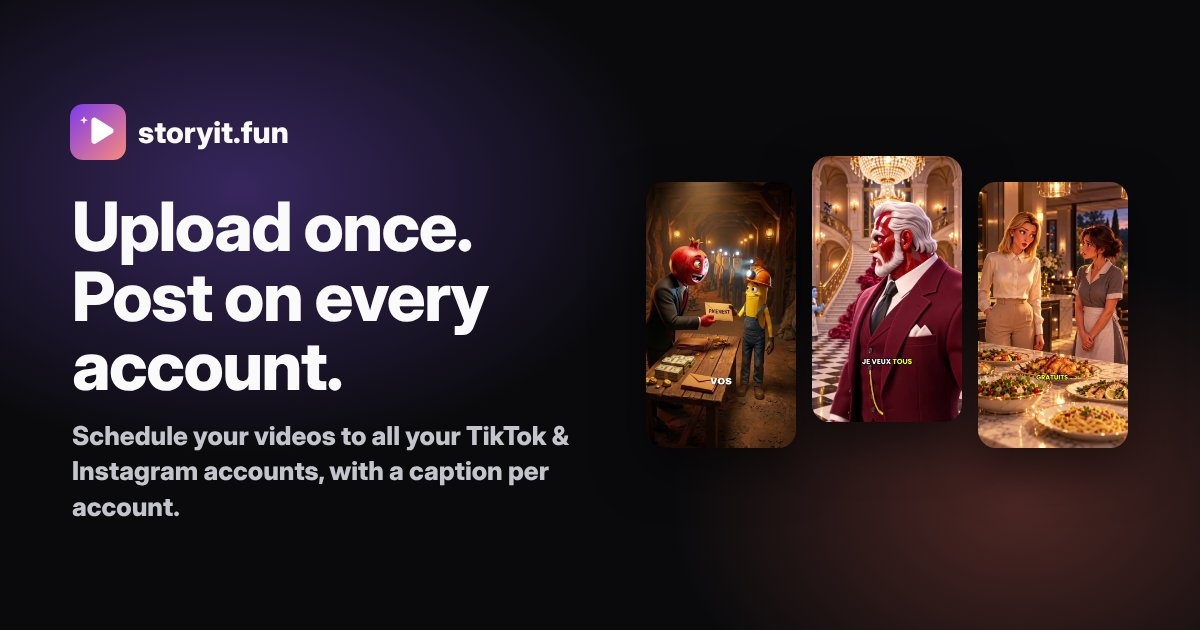
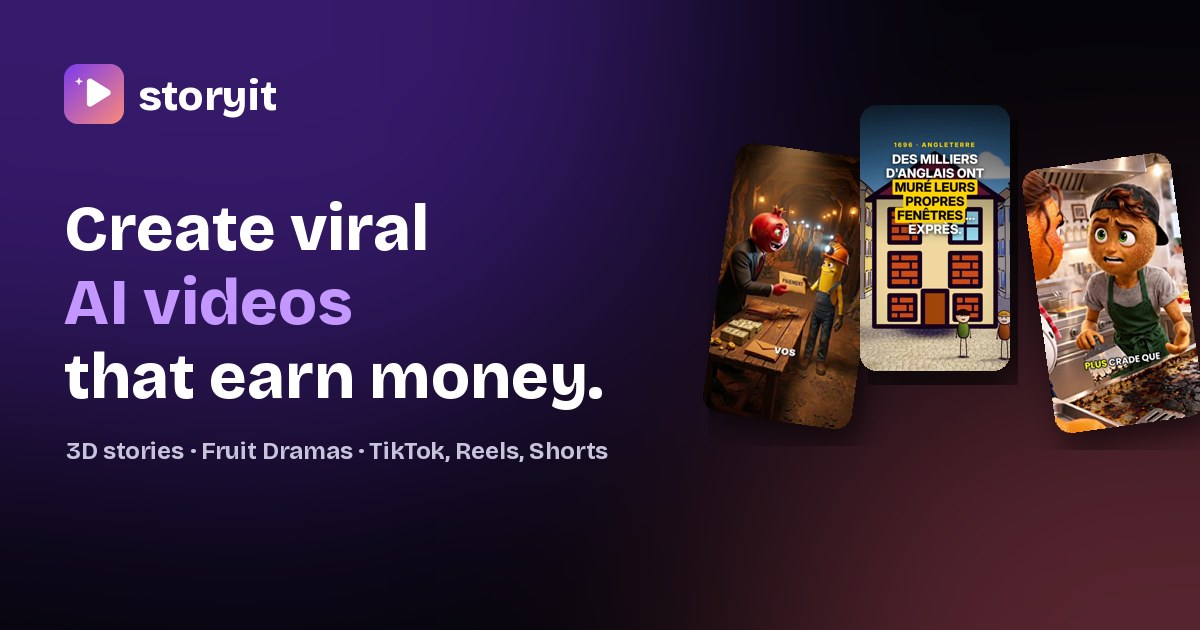
SEO: pre-rendered public pages (real HTML for crawlers), new title/description, up-to-date structured data (app, FAQ, 18 videos), video sitemap, new share image; landing copy and FAQ about AI video creation; hero badges removed
Claude-Session: https://claude.ai/code/session_01Fc3ixor6jDNq2ZXfJ2QyPD

diff --git a/index.html b/index.html
@@ -3,8 +3,8 @@
   <head>
     <meta charset="UTF-8" />
     <meta name="viewport" content="width=device-width, initial-scale=1.0" />
-    <title>Storyit — 3D animated videos from true stories, made by AI</title>
-    <meta name="description" content="Pick a true story, a decor and a voice: Storyit makes a finished 3D animated video with narration, music, hook title and captions, ready for TikTok, Reels and Shorts." />
+    <title>Storyit — AI Video Generator for Viral TikTok Videos (3D &amp; Fruit Dramas)</title>
+    <meta name="description" content="Create viral AI videos that earn money: 3D animated true stories and Fruit Drama mini-series, with voice, music and captions, ready for TikTok, Reels and Shorts. Translate any video in one click. Start free." />
     <meta name="theme-color" content="#0a0a0c" />
     <script>
       // Apply the theme before first paint (no flash). Mirrors src/lib/theme.tsx.
@@ -17,8 +17,8 @@
     </script>
     <link rel="icon" type="image/svg+xml" href="/favicon.svg" />
     <meta property="og:type" content="website" />
-    <meta property="og:title" content="Storyit — 3D animated videos from true stories, made by AI" />
-    <meta property="og:description" content="Pick a true story, a decor and a voice: Storyit makes a finished 3D animated video with narration, music, hook title and captions, ready for TikTok, Reels and Shorts." />
+    <meta property="og:title" content="Storyit — AI Video Generator for Viral TikTok Videos (3D &amp; Fruit Dramas)" />
+    <meta property="og:description" content="Create viral AI videos that earn money: 3D animated true stories and Fruit Drama mini-series, with voice, music and captions, ready for TikTok, Reels and Shorts. Translate any video in one click. Start free." />
     <meta name="twitter:card" content="summary_large_image" />
     <link rel="canonical" href="https://storyit.fun/" />
     <meta name="robots" content="index, follow, max-image-preview:large" />
@@ -30,28 +30,20 @@
     <meta property="og:image" content="https://storyit.fun/og.jpg" />
     <meta property="og:image:width" content="1200" />
     <meta property="og:image:height" content="630" />
-    <meta property="og:image:alt" content="Storyit: upload once, post on every TikTok and Instagram account" />
-    <meta name="twitter:title" content="Storyit — 3D animated videos from true stories, made by AI" />
-    <meta name="twitter:description" content="Pick a true story, a decor and a voice: Storyit makes a finished 3D animated video with narration, music, hook title and captions, ready for TikTok, Reels and Shorts." />
+    <meta property="og:image:alt" content="Storyit: create viral AI videos (3D stories and Fruit Dramas) for TikTok, Reels and Shorts" />
+    <meta name="twitter:title" content="Storyit — AI Video Generator for Viral TikTok Videos (3D &amp; Fruit Dramas)" />
+    <meta name="twitter:description" content="Create viral AI videos that earn money: 3D animated true stories and Fruit Drama mini-series, with voice, music and captions, ready for TikTok, Reels and Shorts. Translate any video in one click. Start free." />
     <meta name="twitter:image" content="https://storyit.fun/og.jpg" />
     <!-- Self-hosted fonts (no third-party request); the body and headline fonts are preloaded. -->
     <link rel="preload" as="font" type="font/woff2" href="/fonts/Inter-latin-1ab1ad.woff2" crossorigin />
-    <script type="application/ld+json">[{"@context": "https://schema.org", "@type": "Organization", "name": "Storyit", "url": "https://storyit.fun/", "logo": "https://storyit.fun/brand/storyit-icon-1024.png"}, {"@context": "https://schema.org", "@type": "WebSite", "name": "Storyit", "url": "https://storyit.fun/"}, {"@context": "https://schema.org", "@type": "SoftwareApplication", "name": "Storyit", "applicationCategory": "BusinessApplication", "operatingSystem": "Web", "url": "https://storyit.fun/", "image": "https://storyit.fun/og.jpg", "description": "Schedule and publish videos to several TikTok and Instagram accounts from one library, with a caption per account and protection against duplicate posts.", "offers": [{"@type": "Offer", "name": "Starter", "price": "0", "priceCurrency": "USD"}, {"@type": "Offer", "name": "Creator", "price": "29", "priceCurrency": "USD", "category": "subscription"}, {"@type": "Offer", "name": "Studio", "price": "99", "priceCurrency": "USD", "category": "subscription"}]}]</script>
+    <script type="application/ld+json">[{"@context": "https://schema.org", "@type": "Organization", "name": "Storyit", "url": "https://storyit.fun/", "logo": "https://storyit.fun/brand/storyit-icon-1024.png"}, {"@context": "https://schema.org", "@type": "WebSite", "name": "Storyit", "url": "https://storyit.fun/"}, {"@context": "https://schema.org", "@type": "SoftwareApplication", "name": "Storyit", "applicationCategory": "MultimediaApplication", "applicationSubCategory": "AI video generator", "operatingSystem": "Web", "url": "https://storyit.fun/", "image": "https://storyit.fun/og.jpg", "description": "AI video generator for TikTok, Reels and Shorts: 3D animated true stories, Fruit Drama mini-series with AI images and animation, automatic editing, hook titles and captions, and AI video translation.", "featureList": ["AI 3D animated videos", "AI fruit video (Fruit Drama) generator", "Automatic video generation with ChatGPT images and Grok animation", "AI video translation with a new voice", "Hook titles and word-by-word captions", "Daily trending video ideas"], "offers": [{"@type": "Offer", "name": "Starter", "price": "0", "priceCurrency": "USD"}, {"@type": "Offer", "name": "Creator", "price": "29", "priceCurrency": "USD", "category": "subscription"}, {"@type": "Offer", "name": "Pro", "price": "59", "priceCurrency": "USD", "category": "subscription"}, {"@type": "Offer", "name": "Studio", "price": "99", "priceCurrency": "USD", "category": "subscription"}]}]</script>
   </head>
   <body class="bg-ink-950 text-zinc-200 antialiased">
     <div id="root">
-      <!-- Shown to crawlers and link previews that don't run JavaScript; React replaces it on load. -->
+      <!-- Replaced at build time by the pre-rendered page (scripts/prerender.mjs); React renders the app on load. -->
       <main style="max-width:720px;margin:0 auto;padding:64px 16px;font-family:system-ui,sans-serif">
-        <h1>Turn any true story into a 3D animated video.</h1>
-        <p>Pick a story, a decor and a voice. Storyit writes the script, animates the 3D world, records the narrator and adds the hook title, captions and music: a finished vertical video for TikTok, Reels and Shorts.</p>
-        <h2>How it works</h2>
-        <ol>
-          <li>Connect your TikTok and Instagram accounts with their official login.</li>
-          <li>Import your videos once into your library.</li>
-          <li>Post a video on several accounts at once, or plan a daily rotation.</li>
-          <li>Approve each caption; the server publishes on time and shows the real status.</li>
-        </ol>
-        <p>Plans: Starter (free), Creator ($29/month), Studio ($99/month). <a href="/login">Start free</a> · <a href="/privacy">Privacy</a> · <a href="/terms">Terms</a></p>
+        <h1>Create viral AI videos that earn money.</h1>
+        <p>Storyit is an AI video generator for TikTok, Reels and Shorts: 3D animated true stories and Fruit Drama mini-series, with voice, music, hook title and captions. <a href="/login">Start free</a></p>
       </main>
     </div>
     <script type="module" src="/src/main.tsx"></script>

diff --git a/src/components/landing/FAQ.tsx b/src/components/landing/FAQ.tsx
@@ -2,14 +2,15 @@ import { ChevronDown } from 'lucide-react';
 import { PROMPT_PROJECT_COST, formatCredits } from '@/services/credits';
 
 export const faqs = [
-  { q: 'Which platforms does Storyit publish to?', a: 'TikTok and Instagram Reels, through their official APIs. You can connect several accounts on each.' },
-  { q: 'Do you need my passwords?', a: 'No. You log in on TikTok’s and Instagram’s own pages and approve Storyit. You can disconnect an account at any time.' },
-  { q: 'Which Instagram accounts work?', a: 'Professional accounts (Business or Creator). Switching a personal account to professional is free in the Instagram app.' },
-  { q: 'Will my TikTok posts be public?', a: 'You choose the visibility for each post. While TikTok is still reviewing an app, TikTok itself keeps posts private; Storyit shows this on the account before you post.' },
-  { q: 'Can the same video be posted twice by mistake?', a: 'No. A video can go to many accounts, but only once per account. If a publication result is uncertain, Storyit asks you to check instead of reposting.' },
-  { q: 'Who writes the captions?', a: 'You, or the AI, account by account. Each account can have its own tone, language and hashtags. Nothing is posted before you approve it.' },
-  { q: 'What is the Prompt Studio?', a: `A guided writer for 60-second Fruit Drama videos: 3 story options, a 15-20 scene script with dialogue, then one image prompt and one video prompt per scene, a thumbnail and hashtags. A full project costs ${formatCredits(PROMPT_PROJECT_COST)} credits.` },
-  { q: 'What is the Animated Studio?', a: `Describe your idea, choose a story and a decor with the studio, and Storyit produces a finished vertical animated short of 30 seconds, 1 minute or 2 minutes: 3D world, cartoon characters, narration, music and sound. One short costs 3,500 credits (30 s), 6,000 credits (1 min) or 12,000 credits (2 min), refunded if the render fails.` },
+  { q: 'What is Storyit?', a: 'Storyit is an AI video generator for TikTok, Instagram Reels and YouTube Shorts. It turns a story idea into a finished vertical video: 3D animated true stories, Fruit Drama mini-series, and translations of your existing videos into other languages.' },
+  { q: 'How do I make an AI fruit video (Fruit Drama)?', a: `Open the Prompt Studio, pick a character style (fruits, nails, everyday objects or gemstones) and write your story in a few lines, or let the studio propose 3 stories. It writes the hook, a timed script of more than one minute, every image prompt and every animation prompt. Then click "Generate the video": the images are drawn, each clip is animated and the final video is edited for you. A full project costs ${formatCredits(PROMPT_PROJECT_COST)} credits; the finished video is priced by quality and length.` },
+  { q: 'How do I make a 3D animated video with AI?', a: 'In the Animated Studio, choose a theme, then click the studio’s proposals: a true story, a decor and a voice. Storyit writes the script, animates the 3D world and the characters, records the narrator and adds the hook title, captions and music. A 30-second video costs 3,500 credits, 1 minute 6,000 credits, 2 minutes 12,000 credits, refunded if the render fails.' },
+  { q: 'Can AI videos be monetized on TikTok?', a: 'TikTok’s Creator Rewards Program pays for original videos longer than one minute from eligible accounts, and AI-generated content must be labeled as such when you post. Storyit makes videos of more than one minute built for retention, but earnings depend on your account, your audience and TikTok’s rules: nobody can guarantee them.' },
+  { q: 'Which AI models does Storyit use?', a: 'The studios use leading models for each step: ChatGPT for the character and scene images, Grok Imagine for the animation, Claude for the scripts and ElevenLabs for the voices. You don’t need any account or API key with them: everything is included in your credits.' },
+  { q: 'Can Storyit translate my videos?', a: 'Yes. Upload a vertical video: Storyit separates the voice from the music, translates every sentence so it fits the same timing, records a new voice in French, English or Spanish and replaces the burned-in captions. It costs 3,500 credits per minute, refunded if the translation fails.' },
+  { q: 'Is there a free plan?', a: 'Yes. You get 3,000 free credits when you sign up, no card required: enough for two full Prompt Studio projects. Paid plans start at $29/month with 43,000 credits every month.' },
+  { q: 'Do I own the videos I create?', a: 'Yes. You keep all rights to your stories and videos, and you can download them and post them wherever you want.' },
+  { q: 'Does Storyit post to TikTok and Instagram for me?', a: 'Direct posting to TikTok and Instagram is temporarily paused while the platforms review it. You download your finished videos and post them yourself in a few seconds.' },
   { q: 'Can I cancel anytime?', a: 'Yes, from Plan & credits. You keep access until the end of the paid period.' },
 ];
 

diff --git a/src/components/landing/FeatureGrid.tsx b/src/components/landing/FeatureGrid.tsx
@@ -1,19 +1,19 @@
-import { CalendarDays, Copy, History, Layers, MessageSquareText, Sparkles } from 'lucide-react';
+import { Captions, Clapperboard, Languages, Sparkles, TrendingUp, Wand2 } from 'lucide-react';
 
 const features = [
-  { icon: Layers, title: 'Every account in one place', body: 'Connect several TikTok and Instagram accounts and group them, for example “Fruit Drama FR” or “International”.' },
-  { icon: CalendarDays, title: 'Simultaneous or rotation', body: 'Post a video everywhere at once, or plan a daily rotation. You see the exact number of posts before you activate it.' },
-  { icon: MessageSquareText, title: 'A caption per account', body: 'Each post gets its own caption and hashtags, written by AI or by you. Your edits are never overwritten.' },
-  { icon: Copy, title: 'No accidental duplicates', body: 'A video is never sent twice to the same account. If a result is uncertain, Storyit asks you instead of reposting.' },
-  { icon: History, title: 'Real status, full history', body: 'A post shows “Published” only when the platform confirms it. Every attempt and error is logged.' },
-  { icon: Sparkles, title: 'Prompt Studio', body: 'Get a full 60-second Fruit Drama: 3 story options, a 15-20 scene script, and ready-to-paste image and video prompts. Images can be generated for you.' },
+  { icon: Clapperboard, title: 'AI 3D animated videos', body: 'True stories told by a narrator in a 3D world with cartoon characters, music and sound effects. 30 seconds, 1 minute or 2 minutes.' },
+  { icon: Sparkles, title: 'Fruit Drama generator', body: 'Mini-dramas with fruit, nail, object or gemstone characters: the format that explodes on TikTok, written for retention and comments.' },
+  { icon: Wand2, title: 'Fully automatic videos', body: 'ChatGPT draws the characters and scenes, Grok animates every clip, and the video is edited for you. Pick the quality and see the price first.' },
+  { icon: TrendingUp, title: 'Trending ideas every day', body: 'Fresh concepts from what works right now on TikTok, with the hook, the outline and the ending, ready to turn into your video.' },
+  { icon: Languages, title: 'AI video translation', body: 'The same video in French, English or Spanish: new voice, original music kept, captions replaced. Reach new countries with one click.' },
+  { icon: Captions, title: 'Hook title & captions', body: 'A bold hook title for the first seconds and word-by-word captions, the two things that keep viewers watching.' },
 ];
 
 export function FeatureGrid() {
   return (
     <section id="features" className="mx-auto max-w-6xl px-4 py-20 md:px-6">
-      <p className="label text-center">Built for creators with several accounts</p>
-      <h2 className="mt-3 text-center font-display text-4xl text-zinc-50">Your posting team, running on a server</h2>
+      <p className="label text-center">Everything you need to go viral</p>
+      <h2 className="mt-3 text-center font-display text-4xl text-zinc-50">An AI video studio in your browser</h2>
       <div className="mt-12 grid gap-px overflow-hidden rounded-2xl border border-line/[0.06] bg-line/[0.06] sm:grid-cols-2 lg:grid-cols-3">
         {features.map(({ icon: Icon, title, body }) => (
           <div key={title} className="bg-ink-900 p-6">

diff --git a/src/components/landing/TimeSaved.tsx b/src/components/landing/TimeSaved.tsx
@@ -1,20 +1,20 @@
 import { Check, X } from 'lucide-react';
 
 const ROWS = [
-  ['Post one video on 6 accounts', 'Upload it 6 times, switch accounts 6 times', 'Upload once, pick the accounts'],
-  ['Write the captions', 'Copy-paste the same text everywhere', 'A caption per account and platform'],
-  ['Post every day at the right time', 'Set alarms, post from your phone', 'A calendar the server follows'],
-  ['Know what went where', 'Notes, screenshots, memory', 'History per video and per account'],
-  ['Avoid reposting the same video', 'Hope you remember', 'Blocked automatically per account'],
-  ['Handle a failed post', 'Notice it days later', 'Clear error, safe retry'],
+  ['Find a story that hooks', 'Hours scrolling for ideas', 'Trending concepts and 3 story options'],
+  ['Write the script', 'A blank page, dialogue that drags', 'A timed script of more than one minute'],
+  ['Create the characters and scenes', 'Learn 3D software or prompt for days', 'Drawn and kept consistent for you'],
+  ['Animate and add voices', 'Clip by clip, voice by voice', 'Every clip animated with voices and sound'],
+  ['Edit the final video', 'Cut silences and sync by hand', 'Edited automatically, ready to post'],
+  ['Post in another language', 'Re-record everything', 'Translated with a new voice in one click'],
 ];
 
 export function TimeSaved() {
   return (
     <section id="time" className="mx-auto max-w-6xl px-4 py-20 md:px-6">
-      <p className="label text-center">Time</p>
-      <h2 className="mt-3 text-center font-display text-4xl text-zinc-50 md:text-5xl">Stop spending your evenings re-uploading the same video</h2>
-      <p className="mx-auto mt-3 max-w-xl text-center text-sm text-zinc-400">Posting daily on several accounts is what grows a network. Doing it by hand is what makes creators quit. Storyit does the repetitive part.</p>
+      <p className="label text-center">Time saved</p>
+      <h2 className="mt-3 text-center font-display text-4xl text-zinc-50 md:text-5xl">Days of work, done in minutes</h2>
+      <p className="mx-auto mt-3 max-w-xl text-center text-sm text-zinc-400">Posting a strong video every day is what grows an account. Making each one by hand is what makes creators quit. Storyit does the heavy lifting.</p>
       <ul className="mt-10 space-y-3 md:hidden">
         {ROWS.map(([step, before, after]) => (
           <li key={step} className="surface p-4">

diff --git a/src/components/landing/HowItWorks.tsx b/src/components/landing/HowItWorks.tsx
@@ -1,17 +1,17 @@
-import { CalendarClock, CheckCircle2, FolderUp, Link2 } from 'lucide-react';
+import { Clapperboard, Download, Lightbulb, Wand2 } from 'lucide-react';
 
 const steps = [
-  { icon: Link2, title: 'Connect your accounts', body: 'Log in to TikTok and Instagram on their own pages. Storyit never sees your passwords.' },
-  { icon: FolderUp, title: 'Import your videos once', body: 'Your library holds every video. Large files are compressed on your device before upload.' },
-  { icon: CalendarClock, title: 'Choose how they go out', body: 'Send one video to several accounts at once, or let a daily rotation pick new videos for you.' },
-  { icon: CheckCircle2, title: 'Approve, then it runs', body: 'Check each caption and account. The server publishes on time and shows the status the platform returns.' },
+  { icon: Lightbulb, title: 'Pick a story', body: 'Write a few lines, choose one of the studio’s ideas, or start from today’s trending concepts. Pick a style: 3D true story, fruits, nails, objects or gemstones.' },
+  { icon: Wand2, title: 'The AI writes it', body: 'A hook that stops the scroll, a timed script of more than one minute, the characters, every image prompt and every animation prompt.' },
+  { icon: Clapperboard, title: 'The AI makes the video', body: 'Images are drawn, each clip is animated with voices and sound, and the video is edited for you: no editing software needed.' },
+  { icon: Download, title: 'Post it and grow', body: 'Download the finished vertical video for TikTok, Reels and Shorts, with captions and the AI label ready. Translate it to reach new countries.' },
 ];
 
 export function HowItWorks() {
   return (
     <section id="how" className="mx-auto max-w-6xl px-4 py-20 md:px-6">
       <p className="label text-center">How it works</p>
-      <h2 className="mt-3 text-center font-display text-4xl text-zinc-50">From one upload to every account, in four steps</h2>
+      <h2 className="mt-3 text-center font-display text-4xl text-zinc-50">From an idea to a viral AI video, in four steps</h2>
       <ol className="mt-12 grid gap-4 md:grid-cols-4">
         {steps.map(({ icon: Icon, title, body }, i) => (
           <li key={title} className="surface relative p-6">

diff --git a/src/entry-server.tsx b/src/entry-server.tsx
@@ -1,0 +1,36 @@
+// Build-time pre-rendering (scripts/prerender.mjs): the public pages rendered to real HTML, so search engines, AI
+// crawlers and link previews read the full text without running JavaScript. The browser then renders the app as usual.
+import { renderToString } from 'react-dom/server';
+import { StaticRouter } from 'react-router-dom/server';
+import { ToastProvider } from '@/components/ui';
+import { AuthProvider } from '@/lib/auth';
+import { ThemeProvider } from '@/lib/theme';
+import LandingPage from '@/pages/LandingPage';
+import PrivacyPage from '@/pages/PrivacyPage';
+import TermsPage from '@/pages/TermsPage';
+import { faqs as FAQS } from '@/components/landing/FAQ';
+import { SHOWCASE, SHOWCASE_FRUIT, posterSrc, videoSrc } from '@/data/showcase';
+
+const PAGES: Record<string, () => JSX.Element> = { '/': LandingPage, '/privacy': PrivacyPage, '/terms': TermsPage };
+export const ROUTES = Object.keys(PAGES);
+
+export function render(url: string): string {
+  const Page = PAGES[url]!;
+  return renderToString(
+    <ThemeProvider><AuthProvider><ToastProvider>
+      <StaticRouter location={url}><Page /></StaticRouter>
+    </ToastProvider></AuthProvider></ThemeProvider>,
+  );
+}
+
+/** structured data of the home page: the FAQ and the example videos */
+export function homeJsonLd(site: string) {
+  const iso = (s: number) => `PT${Math.floor(s / 60)}M${s % 60}S`;
+  return [
+    { '@context': 'https://schema.org', '@type': 'FAQPage', mainEntity: FAQS.map((f) => ({ '@type': 'Question', name: f.q, acceptedAnswer: { '@type': 'Answer', text: f.a } })) },
+    ...[...SHOWCASE, ...SHOWCASE_FRUIT].map((v) => ({
+      '@context': 'https://schema.org', '@type': 'VideoObject', name: v.title, description: `${v.hook} Made with Storyit (${v.format}).`,
+      thumbnailUrl: site + posterSrc(v.slug).replace('.webp', '.jpg'), contentUrl: site + videoSrc(v.slug), uploadDate: '2026-11-01', duration: iso(v.seconds),
+    })),
+  ];
+}

diff --git a/src/components/landing/Hero.tsx b/src/components/landing/Hero.tsx
@@ -25,14 +25,8 @@ export function Hero() {
       <HeroBackdrop />
       <div aria-hidden="true" className="bg-grid mask-fade-radial pointer-events-none absolute inset-0" />
       <div className="pointer-events-none absolute left-1/2 top-0 h-[520px] w-[900px] -translate-x-1/2 rounded-full bg-violet-600/20 blur-[120px]" />
-      <div className="relative mx-auto max-w-6xl px-4 pb-12 pt-36 text-center md:px-6 md:pt-44">
-        <StartLink to="/app/billing" className="group mx-auto mb-4 flex max-w-fit items-center gap-2 rounded-full border border-coral-400/40 bg-coral-500/10 px-3 py-1.5 text-xs font-medium text-coral-300 transition hover:border-coral-400/70">
-          <span aria-hidden>🎉</span> Launch offer: Creator at $29/mo instead of $45 <ArrowRight className="h-3.5 w-3.5 transition-transform group-hover:translate-x-0.5" aria-hidden />
-        </StartLink>
-        <p className="label mx-auto inline-flex items-center gap-2 rounded-full border border-line/10 px-3 py-1">
-          <span className="h-1.5 w-1.5 rounded-full bg-coral-400" /> AI 3D animated videos · TikTok, Reels, Shorts
-        </p>
-        <h1 className="mx-auto mt-6 max-w-4xl text-balance font-hero text-5xl font-extrabold leading-[1.02] tracking-[-0.035em] text-zinc-50 md:text-7xl">
+      <div className="relative mx-auto max-w-6xl px-4 pb-12 pt-28 text-center md:px-6 md:pt-36">
+        <h1 className="mx-auto max-w-4xl text-balance font-hero text-5xl font-extrabold leading-[1.02] tracking-[-0.035em] text-zinc-50 md:text-7xl">
           Create viral <span className="bg-gradient-to-r from-violet-400 via-fuchsia-400 to-coral-400 bg-clip-text text-transparent">AI videos</span> that earn money.
         </h1>
         <PromoVideo className="relative mx-auto mt-8 max-w-4xl text-left" />

diff --git a/src/components/landing/FinalCTA.tsx b/src/components/landing/FinalCTA.tsx
@@ -7,9 +7,9 @@ export function FinalCTA() {
     <section className="mx-auto max-w-6xl px-4 pb-24 md:px-6">
       <div className="relative overflow-hidden rounded-3xl border border-violet-500/20 bg-gradient-to-br from-violet-600/20 via-ink-900 to-coral-500/10 px-6 py-16 text-center">
         <div aria-hidden="true" className="bg-grid pointer-events-none absolute inset-0 [mask-image:radial-gradient(ellipse_at_center,#000_20%,transparent_75%)]" />
-        <h2 className="relative font-display text-4xl text-zinc-50 md:text-5xl">Your videos, on every account, on time.</h2>
-        <p className="relative mx-auto mt-3 max-w-md text-sm text-zinc-400">Launch offer: Creator at <s className="text-zinc-500">$45</s> $29/mo. Cancel anytime.</p>
-        <StartLink to="/app/billing" className="relative mt-8 inline-block"><Button size="lg">Get started for $29/mo <ArrowRight className="h-4 w-4" /></Button></StartLink>
+        <h2 className="relative font-display text-4xl text-zinc-50 md:text-5xl">Your next viral AI video starts here.</h2>
+        <p className="relative mx-auto mt-3 max-w-md text-sm text-zinc-400">3,000 free credits to start, no card. Then Creator at <s className="text-zinc-500">$45</s> $29/mo, cancel anytime.</p>
+        <StartLink to="/app" className="relative mt-8 inline-block"><Button size="lg">Create my first AI video <ArrowRight className="h-4 w-4" /></Button></StartLink>
       </div>
     </section>
   );

diff --git a/src/pages/LandingPage.tsx b/src/pages/LandingPage.tsx
@@ -15,15 +15,13 @@ import { Showcase } from '@/components/landing/Showcase';
 import { TimeSaved } from '@/components/landing/TimeSaved';
 import { StickyCTA } from '@/components/landing/StickyCTA';
 import { Link } from 'react-router-dom';
-import { faqs } from '@/components/landing/FAQ';
 import { useSeo } from '@/lib/seo';
 
 /** FAQPage structured data built from the visible FAQ, so both always match. */
-const FAQ_LD = { '@context': 'https://schema.org', '@type': 'FAQPage', mainEntity: faqs.map((f) => ({ '@type': 'Question', name: f.q, acceptedAnswer: { '@type': 'Answer', text: f.a } })) };
 import { Logo } from '@/components/ui';
 
 export default function LandingPage() {
-  useSeo({ path: '/', jsonLd: FAQ_LD });
+  useSeo({ path: '/' }); // the FAQ and video structured data are written into the pre-rendered HTML (scripts/prerender.mjs)
   return (
     <div className="min-h-screen bg-ink-950">
       <MarketingNavbar overlay />

diff --git a/src/lib/seo.ts b/src/lib/seo.ts
@@ -1,8 +1,8 @@
 import { useEffect } from 'react';
 
 const SITE = 'https://storyit.fun';
-const DEFAULT_TITLE = 'Storyit — 3D animated videos from true stories, made by AI';
-const DEFAULT_DESC = 'Pick a true story, a decor and a voice: Storyit makes a finished 3D animated video with narration, music, hook title and captions, ready for TikTok, Reels and Shorts.';
+const DEFAULT_TITLE = 'Storyit — AI Video Generator for Viral TikTok Videos (3D & Fruit Dramas)';
+const DEFAULT_DESC = 'Create viral AI videos that earn money: 3D animated true stories and Fruit Drama mini-series, with voice, music and captions, ready for TikTok, Reels and Shorts. Translate any video in one click. Start free.';
 
 function setMeta(attr: 'name' | 'property', key: string, value: string) {
   let el = document.head.querySelector<HTMLMetaElement>(`meta[${attr}="${key}"]`);

diff --git a/src/lib/theme.tsx b/src/lib/theme.tsx
@@ -5,6 +5,7 @@ const KEY = 'storyit:theme';
 
 /** Stored choice, else the OS preference. Must match the inline script in index.html. */
 function initialTheme(): Theme {
+  if (typeof window === 'undefined') return 'dark'; // build-time pre-rendering
   try {
     const saved = localStorage.getItem(KEY);
     if (saved === 'light' || saved === 'dark') return saved;
